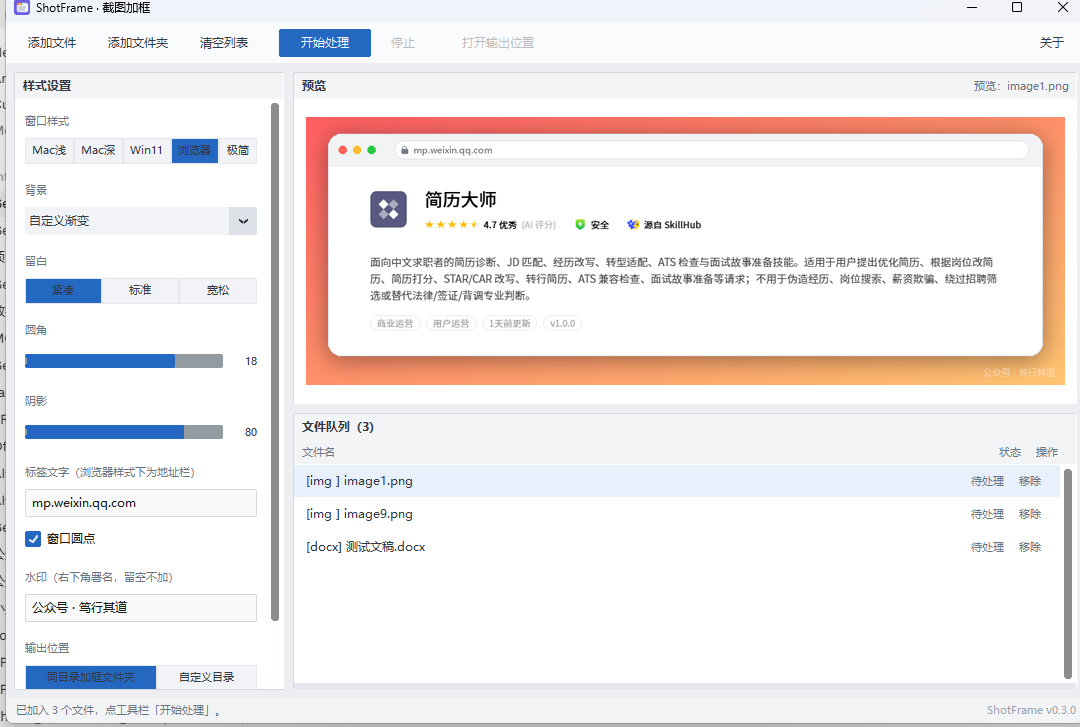
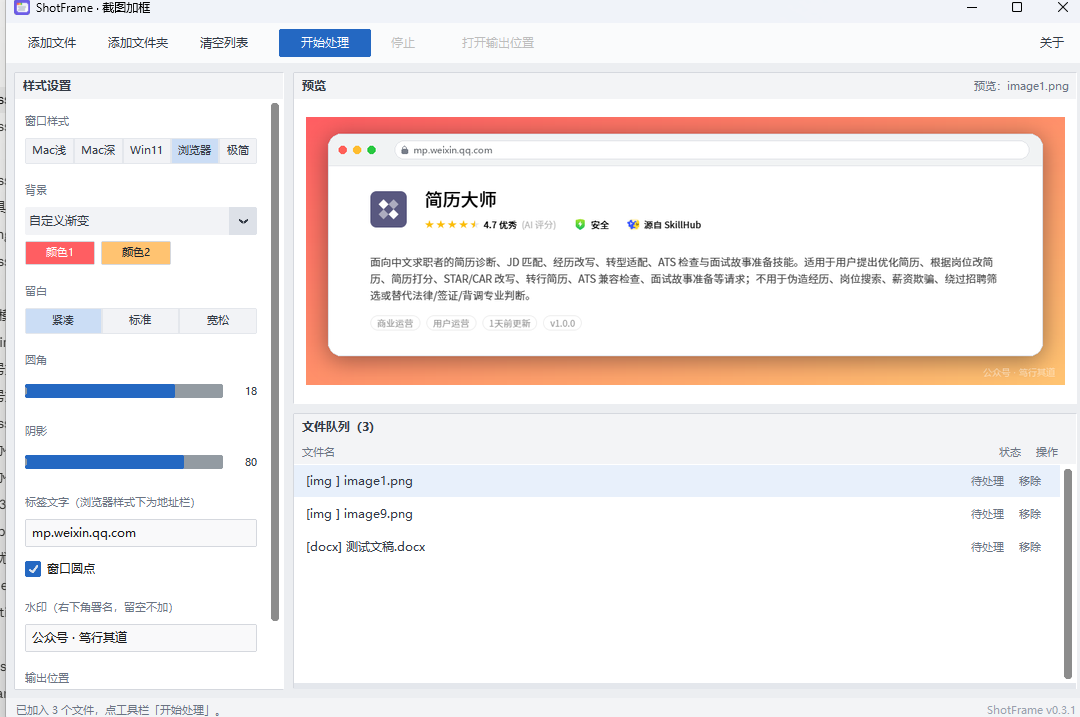
v0.3.2: 修复对比度与布局缺陷
- 分段按钮选中态由深蓝底黑字改为浅蓝底(#CBDDF5)深字，选中文字清晰可读
- 修复颜色1/颜色2 色块重新显示时掉到面板末尾的问题(pack after 背景下拉)
- 色块按钮文字颜色按背景亮度自动黑/白，浅色也可读
- 预览增加启动竞态保护(布局未完成时延迟重试)，双重 Configure 绑定
- GUI 集成测试复跑 8 断言通过

diff --git a/shotframe/gui.py b/shotframe/gui.py
@@ -111,6 +111,12 @@ def rgb2hex(c):
     return "#%02X%02X%02X" % tuple(c)
 
 
+def contrast_text(rgb):
+    """按背景亮度返回黑/白文字色，保证色块上的字始终可读。"""
+    lum = 0.299 * rgb[0] + 0.587 * rgb[1] + 0.114 * rgb[2]
+    return "#1F242D" if lum > 150 else "#FFFFFF"
+
+
 if _HAS_CTK and _HAS_DND:
     class _Root(ctk.CTk, TkinterDnD.DnDWrapper):
         def __init__(self, *a, **k):
@@ -311,8 +317,8 @@ class App:
             wrap, values=list(FRAME_SHORT.values()), variable=self.frame_var,
             command=lambda _v: self.schedule_preview(), font=self.f11,
             height=26, corner_radius=R, border_width=1,
-            fg_color="#E4E7EC", selected_color=ACCENT,
-            selected_hover_color=ACCENT_DARK, unselected_color="#F2F3F6",
+            fg_color="#E4E7EC", selected_color="#CBDDF5",
+            selected_hover_color="#BDD3F0", unselected_color="#F2F3F6",
             unselected_hover_color="#E7EAEF",
             text_color=TEXT_MAIN).pack(fill="x", padx=10)
 
@@ -324,13 +330,14 @@ class App:
         else:
             bd_name = BACKDROPS.get(bd_key, BACKDROPS["gray"])["name"]
         self.backdrop_var = tk.StringVar(value=bd_name)
-        ctk.CTkOptionMenu(
+        self.backdrop_menu = ctk.CTkOptionMenu(
             wrap, values=BACKDROP_NAMES, variable=self.backdrop_var,
             command=lambda _v: self.on_backdrop_change(), font=self.f12,
             dropdown_font=self.f12, height=28, corner_radius=R,
             fg_color="#F2F3F6", button_color="#DDE1E8",
             button_hover_color="#CFD5DE",
-            text_color=TEXT_MAIN).pack(fill="x", padx=10)
+            text_color=TEXT_MAIN)
+        self.backdrop_menu.pack(fill="x", padx=10)
 
         self.color_row = ctk.CTkFrame(wrap, fg_color="transparent")
         self.c1_btn = ctk.CTkButton(
@@ -338,6 +345,7 @@ class App:
             corner_radius=R, border_width=1, border_color=BORDER,
             fg_color=rgb2hex(self.custom_c1),
             hover_color=rgb2hex(self.custom_c1),
+            text_color=contrast_text(self.custom_c1),
             command=lambda: self.pick_color(1))
         self.c1_btn.pack(side="left", padx=(0, 6))
         self.c2_btn = ctk.CTkButton(
@@ -345,6 +353,7 @@ class App:
             corner_radius=R, border_width=1, border_color=BORDER,
             fg_color=rgb2hex(self.custom_c2),
             hover_color=rgb2hex(self.custom_c2),
+            text_color=contrast_text(self.custom_c2),
             command=lambda: self.pick_color(2))
         self.c2_btn.pack(side="left")
 
@@ -355,8 +364,8 @@ class App:
             wrap, values=list(PAD_NAMES.values()), variable=self.pad_var,
             command=lambda _v: self.schedule_preview(), font=self.f11,
             height=26, corner_radius=R, border_width=1,
-            fg_color="#E4E7EC", selected_color=ACCENT,
-            selected_hover_color=ACCENT_DARK, unselected_color="#F2F3F6",
+            fg_color="#E4E7EC", selected_color="#CBDDF5",
+            selected_hover_color="#BDD3F0", unselected_color="#F2F3F6",
             unselected_hover_color="#E7EAEF",
             text_color=TEXT_MAIN).pack(fill="x", padx=10)
 
@@ -400,8 +409,8 @@ class App:
             variable=self.out_mode,
             command=lambda _v: self.on_outmode_change(), font=self.f11,
             height=26, corner_radius=R, border_width=1,
-            fg_color="#E4E7EC", selected_color=ACCENT,
-            selected_hover_color=ACCENT_DARK, unselected_color="#F2F3F6",
+            fg_color="#E4E7EC", selected_color="#CBDDF5",
+            selected_hover_color="#BDD3F0", unselected_color="#F2F3F6",
             unselected_hover_color="#E7EAEF",
             text_color=TEXT_MAIN).pack(fill="x", padx=10)
         self.out_dir = cfg.get("out_dir", "")
@@ -440,6 +449,8 @@ class App:
         self.preview_label = ctk.CTkLabel(panel.body, text="")
         self.preview_label.pack(fill="both", expand=True, padx=8, pady=8)
         panel.body.bind("<Configure>", lambda _e: self.schedule_preview())
+        self.preview_label.bind("<Configure>",
+                                lambda _e: self.schedule_preview())
 
     # ---- 队列面板（表格样式）
     def _build_queue(self, panel):
@@ -497,7 +508,9 @@ class App:
     def on_backdrop_change(self, *_):
         name = self.backdrop_var.get()
         if name in (CUSTOM_SOLID, CUSTOM_GRAD):
-            self.color_row.pack(fill="x", padx=10, pady=(6, 0))
+            # 紧跟在背景下拉框后面，而不是掉到面板末尾
+            self.color_row.pack(fill="x", padx=10, pady=(6, 0),
+                                after=self.backdrop_menu)
             self.c2_btn.configure(
                 state="normal" if name == CUSTOM_GRAD else "disabled")
         else:
@@ -514,11 +527,13 @@ class App:
         if which == 1:
             self.custom_c1 = rgb
             self.c1_btn.configure(fg_color=rgb2hex(rgb),
-                                  hover_color=rgb2hex(rgb))
+                                  hover_color=rgb2hex(rgb),
+                                  text_color=contrast_text(rgb))
         else:
             self.custom_c2 = rgb
             self.c2_btn.configure(fg_color=rgb2hex(rgb),
-                                  hover_color=rgb2hex(rgb))
+                                  hover_color=rgb2hex(rgb),
+                                  text_color=contrast_text(rgb))
         self.schedule_preview()
 
     def on_outmode_change(self, init=False):
@@ -574,6 +589,11 @@ class App:
 
     def render_preview(self):
         self._preview_job = None
+        # 窗口尚未完成布局时稍后重试，避免启动瞬间渲染出空白预览
+        if self.preview_label.winfo_width() < 60 \
+                or self.preview_label.winfo_height() < 60:
+            self._preview_job = self.root.after(250, self.render_preview)
+            return
         try:
             out = frame_image(self.preview_src,
                               self.current_style(for_preview=True))

diff --git a/shotframe/__init__.py b/shotframe/__init__.py
@@ -1,4 +1,4 @@
 # -*- coding: utf-8 -*-
 """ShotFrame - 一键给截图加窗口卡片边框，让读者一眼认出这是截图"""
 
-__version__ = "0.3.1"
+__version__ = "0.3.2"